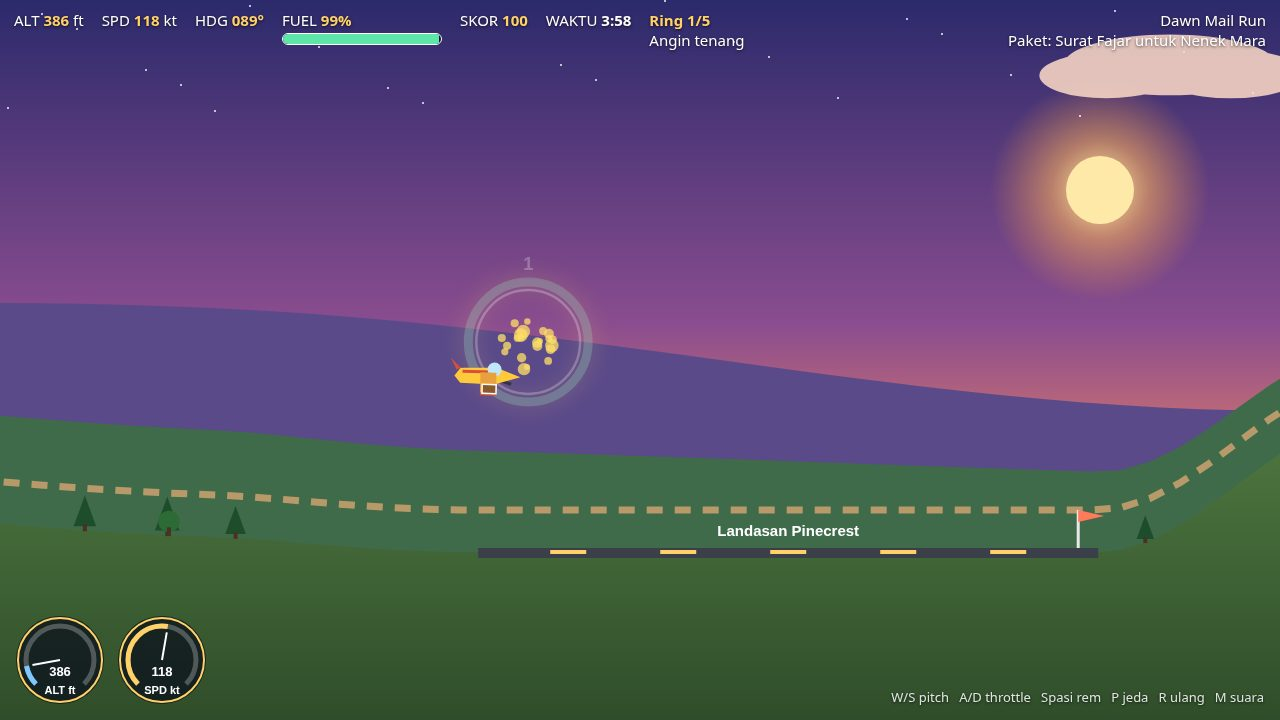
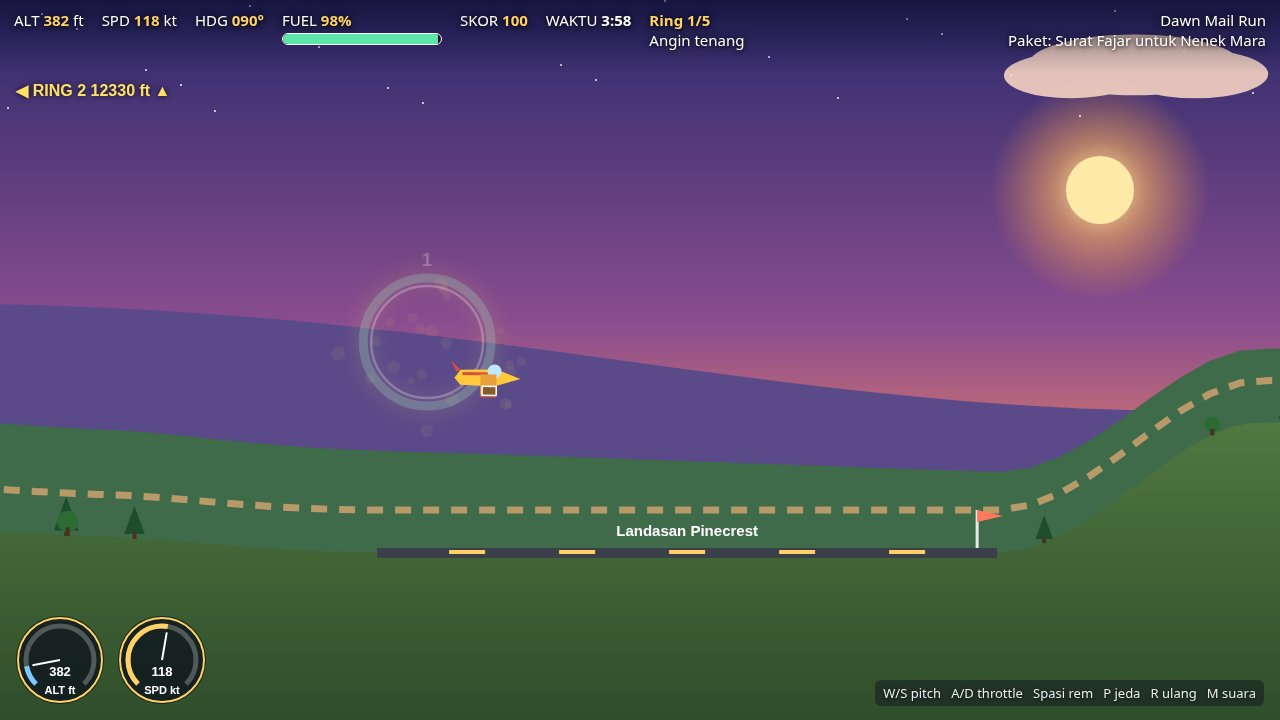
Reviser: next-ring indicator + HUD contrast + stall warning
- Penanda target: jarak (ft) + panah naik/turun + sisi kiri, dan
  panduan ke landasan saat ring habis / misi Island Hop
- HUD: strip gradien gelap di belakang bar atas + bayangan teks
  lebih kuat, hint diberi pill gelap, stat tidak wrap lagi
- Stall: physics mengekspos p.stalled; peringatan 'STALL! Tambah
  throttle' di canvas + SPD merah di HUD
- Hapus baris mati di drawWind

diff --git a/game/src/render.js b/game/src/render.js
@@ -1,6 +1,8 @@
 // render.js - menggambar pesawat, terrain, langit senja, awan, ring, landasan, partikel.
 // Semua grafis Canvas 2D (bentuk, gradasi, poligon), tanpa gambar eksternal.
 
+import { nextRing, nextStrip } from './terrain.js';
+
 export function createRenderer(canvas) {
   const ctx = canvas.getContext('2d');
   const W = canvas.width, H = canvas.height;
@@ -204,7 +206,6 @@ export function createRenderer(canvas) {
     ctx.strokeStyle = 'rgba(255,255,255,0.75)'; ctx.lineWidth = 3;
     for (let i = 0; i < 4; i++) {
       const x = 16 + ((time * 60 + i * 90) % 360);
-      const y = 150 + i * 0;
       ctx.beginPath();
       ctx.moveTo(x, 152);
       ctx.lineTo(x + (mission.wind < 0 ? -34 : 34), 152);
@@ -231,14 +232,39 @@ export function createRenderer(canvas) {
     drawParticles(state.particles, camX);
     drawPlane(state.plane, camX);
     drawWind(state.mission, camX, state.time);
-    // Penanda ring berikutnya: panah kecil di atas pesawat.
-    const nr = state.world.rings.find((r) => !r.passed);
-    if (nr && state.mode === 'playing') {
-      const sx = nr.x - camX;
+    // Penanda target berikutnya: arah + jarak + naik/turun, supaya pemain
+    // tidak kehilangan target saat ring/landasan di luar layar. Setelah ring
+    // terakhir, target beralih ke landasan tujuan.
+    const ring = nextRing(state.world);
+    const target = ring || nextStrip(state.world, state.landings);
+    if (target && state.mode === 'playing') {
+      const sx = target.x - camX;
+      const dx = target.x - state.plane.x;
+      const dy = target.y - state.plane.y;
+      const label = ring ? 'RING ' + target.index : 'LANDASAN';
+      // Jarak dalam kaki, skala ft/px sama dengan skala ketinggian (2,2 ft/px).
+      const distFt = Math.max(0, Math.round(Math.hypot(dx, dy) * 2.2 / 10) * 10);
+      const vert = dy < -90 ? ' ▲' : dy > 90 ? ' ▼' : '';
+      ctx.save();
+      ctx.fillStyle = '#ffe066'; ctx.font = 'bold 16px sans-serif';
+      ctx.shadowColor = 'rgba(0,0,0,0.8)'; ctx.shadowBlur = 6;
       if (sx > W - 60) {
-        ctx.fillStyle = '#ffe066'; ctx.font = 'bold 16px sans-serif'; ctx.textAlign = 'right';
-        ctx.fillText('RING ' + nr.index + ' ▶', W - 16, 96);
+        ctx.textAlign = 'right';
+        ctx.fillText(label + ' ▶ ' + distFt + ' ft' + vert, W - 16, 96);
+      } else if (sx < 60) {
+        ctx.textAlign = 'left';
+        ctx.fillText('◀ ' + label + ' ' + distFt + ' ft' + vert, 16, 96);
       }
+      ctx.restore();
+    }
+    // Peringatan stall: kecepatan di bawah batas, pesawat mulai jatuh.
+    if (state.mode === 'playing' && state.plane.stalled && !state.plane.landed) {
+      ctx.save();
+      ctx.globalAlpha = 0.75 + 0.25 * Math.sin(state.time * 6);
+      ctx.fillStyle = '#ff5a5a'; ctx.font = 'bold 22px sans-serif'; ctx.textAlign = 'center';
+      ctx.shadowColor = 'rgba(0,0,0,0.85)'; ctx.shadowBlur = 8;
+      ctx.fillText('STALL! Tambah throttle (D / →)', W / 2, 140);
+      ctx.restore();
     }
   }
 

diff --git a/game/index.html b/game/index.html
@@ -11,14 +11,15 @@
   #wrap { position: relative; width: 100vw; height: 100vh; }
   canvas#game { display: block; width: 100vw; height: 100vh; }
   .hidden { display: none !important; }
-  #hud { position: absolute; top: 0; left: 0; right: 0; padding: 10px 14px; display: flex; gap: 18px; align-items: flex-start; pointer-events: none; font-size: 15px; text-shadow: 0 1px 3px rgba(0,0,0,0.7); }
+  #hud { position: absolute; top: 0; left: 0; right: 0; padding: 10px 14px 22px; display: flex; gap: 18px; align-items: flex-start; pointer-events: none; font-size: 15px; text-shadow: 0 1px 4px rgba(0,0,0,0.85), 0 0 8px rgba(0,0,0,0.5); background: linear-gradient(to bottom, rgba(8,6,28,0.55), rgba(8,6,28,0)); }
   #hud .stat b { color: #ffd166; }
+  #hud .stat { white-space: nowrap; flex-shrink: 0; }
   #hud .right { margin-left: auto; text-align: right; }
   #fuelwrap { width: 160px; height: 12px; background: rgba(0,0,0,0.55); border: 1px solid #fff; border-radius: 6px; overflow: hidden; margin-top: 3px; }
   #hud-fuelbar { height: 100%; width: 100%; background: #5ee6a8; }
   #gauges { position: absolute; left: 14px; bottom: 14px; display: flex; gap: 10px; pointer-events: none; }
   #gauges canvas { background: transparent; }
-  #hint { position: absolute; bottom: 14px; right: 16px; font-size: 13px; opacity: 0.85; text-shadow: 0 1px 3px rgba(0,0,0,0.8); text-align: right; }
+  #hint { position: absolute; bottom: 14px; right: 16px; font-size: 13px; opacity: 0.9; text-shadow: 0 1px 3px rgba(0,0,0,0.8); text-align: right; background: rgba(10,8,32,0.45); padding: 4px 8px; border-radius: 6px; }
   .screen { position: absolute; inset: 0; display: flex; align-items: center; justify-content: center; background: rgba(12,8,32,0.72); z-index: 5; }
   .panel { background: rgba(20,16,48,0.92); border: 2px solid #ffd166; border-radius: 14px; padding: 28px 34px; max-width: 640px; text-align: center; }
   .panel h1 { font-size: 44px; color: #ffd166; letter-spacing: 1px; }

diff --git a/game/src/physics.js b/game/src/physics.js
@@ -19,6 +19,7 @@ export function createPlane(x, y) {
     onGround: false,
     landed: false,
     crashed: false,
+    stalled: false,
     crashReason: '',
     softLanding: false,
     bank: 0,
@@ -46,7 +47,9 @@ export function stepPlane(p, input, dt, wind, groundYAt) {
   p.speed += (target - p.speed) * Math.min(1, dt * 1.4);
 
   // Lift: butuh kecepatan minimum. Terlalu lambat = stall, pesawat jatuh.
+  // p.stalled diekspos ke HUD/render supaya pemain dapat peringatan saat stall.
   const stalled = p.speed < STALL_SPEED;
+  p.stalled = stalled;
   p.vx = Math.cos(p.pitch) * p.speed + (wind || 0);
   // Canvas: y membesar ke bawah, jadi pitch negatif (hidung naik) harus mengurangi y.
   let vy = Math.sin(p.pitch) * p.speed;

diff --git a/game/src/hud.js b/game/src/hud.js
@@ -52,7 +52,11 @@ export function createHud() {
       const p = state.plane;
       const m = state.mission;
       if (els.alt) els.alt.textContent = String(state.altFeet);
-      if (els.spd) els.spd.textContent = String(state.speedKnots);
+      if (els.spd) {
+        els.spd.textContent = String(state.speedKnots);
+        // SPD merah saat stall supaya bahaya terbaca tanpa melihat canvas.
+        els.spd.style.color = p.stalled ? '#ff5a5a' : '';
+      }
       if (els.hdg) els.hdg.textContent = String(state.heading).padStart(3, '0') + '°';
       if (els.fuel) els.fuel.textContent = Math.round(p.fuel) + '%';
       if (els.fuelBar) {
